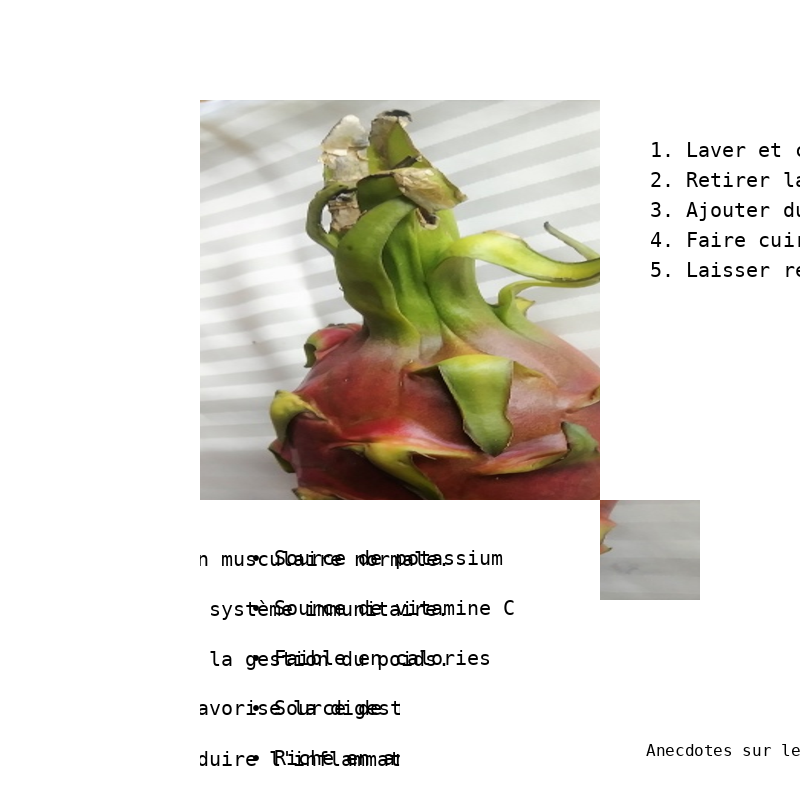
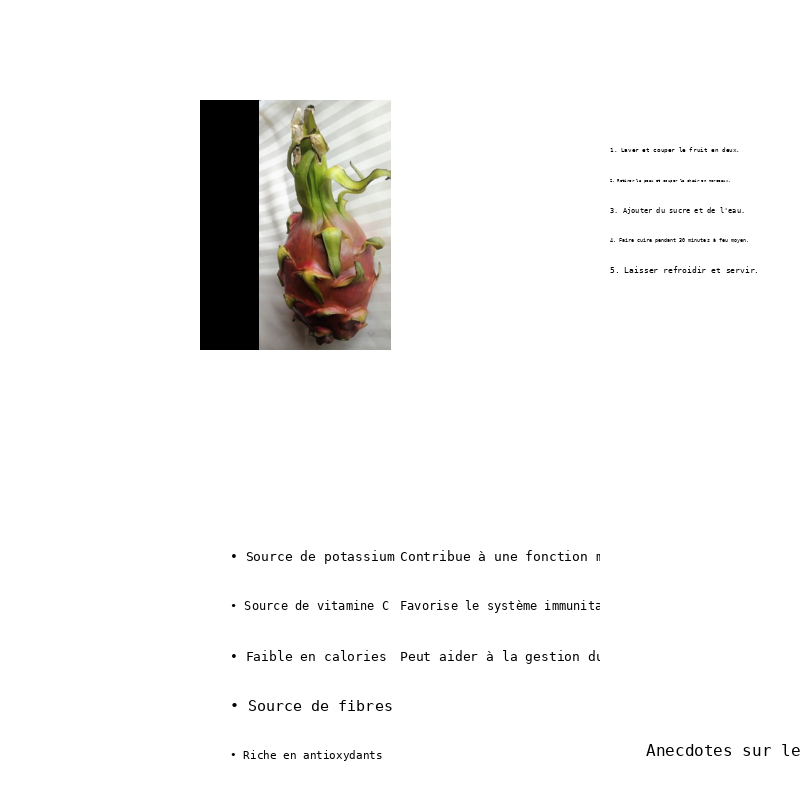
update benefits texte

diff --git a/infographie.py b/infographie.py
@@ -1,16 +1,79 @@
 from PIL import Image, ImageDraw, ImageFont
+import textwrap
+
+def adjust_text_size(text, font, max_width, font_file):
+    # Calcule la taille actuelle du texte
+    current_width, current_height = font.getsize(text)
+
+    # Si la taille actuelle est inférieure à la taille maximale, retourne simplement la police actuelle
+    if current_width <= max_width:
+        return font
+
+    # Trouve la taille de police maximale qui convient
+    max_font_size = get_max_font_size(text, max_width, font_file)
+
+    # Crée la police à partir de la taille maximale trouvée
+    font = ImageFont.truetype(font_file, max_font_size)
+
+    # Effectue un retour à la ligne automatique si nécessaire
+    text = wordWrap(text, max_width)
+
+    return font, text
+
+
+# Ce code permet de Redimensionner et recadrer une image à la taille spécifiée tout en maintenant les proportions d'origine
+def resize_and_crop_image(image, size):
+    ratio = image.width / image.height
+    new_size = (int(min(size[1]*ratio, size[0])), int(min(size[0]/ratio, size[1])))
+    image = image.resize(new_size)
+    width, height = image.size
+    left = (width - size[0]) // 2
+    top = (height - size[1]) // 2
+    right = left + size[0]
+    bottom = top + size[1]
+    image = image.crop((left, top, min(right, width), min(bottom, height)))
+    return image
+
+def get_max_font_size(text, max_width, font_file):
+    font_size = 1
+    while True:
+        font = ImageFont.truetype(font_file, font_size)
+        width, height = font.getsize(text)
+        if width > max_width:
+            return font_size - 1
+        font_size += 1
+
+def wordWrap(text, max_width, line_spacing=1.0):
+    lines = textwrap.wrap(text, width=max_width)
+    spacer_add = min(len(lines) * line_spacing, 0.5) * max_width
+    return spacer_add, "\n".join(lines)
+
 
 # Dimensions de l'image
-IMAGE_WIDTH = 1000
-IMAGE_HEIGHT = 800
+IMAGE_WIDTH = 2000
+IMAGE_HEIGHT = 1600
 
 # Dimensions de l'image centrale
-CENTER_IMAGE_WIDTH = 500
-CENTER_IMAGE_HEIGHT = 500
+CENTER_IMAGE_WIDTH = 250
+CENTER_IMAGE_HEIGHT = 250
 
 # Position de l'image centrale
 CENTER_IMAGE_X = IMAGE_WIDTH // 2 - CENTER_IMAGE_WIDTH // 2
 CENTER_IMAGE_Y = IMAGE_HEIGHT // 2 - CENTER_IMAGE_HEIGHT // 2
+
+# typologie texte
+font_file = "DejaVuSansMono.ttf"
+max_width = 150
+
+palette_couleur = {'fonts':
+                {'h1': {'font': ImageFont.truetype("DejaVuSansMono.ttf", 40), 'color': (0, 0, 0)},
+                 'h2': {'font': ImageFont.truetype("DejaVuSansMono.ttf", 66), 'color': (0, 63, 100)},
+                 'h3': {'font': ImageFont.truetype("DejaVuSansMono.ttf", 66), 'color': (172, 213, 230)},
+                 'p1': {'font': ImageFont.truetype("DejaVuSansMono.ttf", 30), 'color': (0, 0, 0)},
+                 'p2': {'font': ImageFont.truetype("DejaVuSansMono.ttf", 30), 'color': (172, 213, 230)},
+                 'p3': {'font': ImageFont.truetype("DejaVuSansMono.ttf", 45), 'color': (172, 213, 230)}},
+                'colors': {'bg1': (255, 255, 255), 'bg2': (0, 63, 100), 'logoext': '-dark'}
+                }
 
 # Données sur le fruit du dragon
 product_name = 'Fruit du dragon'
@@ -36,34 +99,47 @@ fun_facts = [
 
 # Chargement de l'image du fruit du dragon
 product_image = Image.open('images/fruit_dragon.jpg')
-product_image = product_image.resize((CENTER_IMAGE_WIDTH, CENTER_IMAGE_HEIGHT))
+
+product_image = resize_and_crop_image(product_image, (CENTER_IMAGE_WIDTH, CENTER_IMAGE_HEIGHT))
 
 # Création de l'image centrale
-center_image = Image.new('RGB', (CENTER_IMAGE_WIDTH, CENTER_IMAGE_HEIGHT), (255, 255, 255))
+# center_image = Image.new('RGB', (CENTER_IMAGE_WIDTH, CENTER_IMAGE_HEIGHT), (255, 255, 255))
+center_image = Image.new('RGB', (CENTER_IMAGE_WIDTH, CENTER_IMAGE_HEIGHT), palette_couleur['colors']['bg1'])
 center_image.paste(product_image, (0, 0))
 center_image_draw = ImageDraw.Draw(center_image)
 center_image_font = ImageFont.truetype('DejaVuSansMono.ttf', 40)
 center_image_draw.text((CENTER_IMAGE_WIDTH // 2, CENTER_IMAGE_HEIGHT + 20), product_name, fill=(0, 0, 0), font=center_image_font, anchor='ms')
 
 # Création des étapes de cuisson
-cooking_steps_image = Image.new('RGB', (400, 400), (255, 255, 255))
+cooking_steps_image = Image.new('RGB', (400, 400), palette_couleur['colors']['bg1'])
 cooking_steps_draw = ImageDraw.Draw(cooking_steps_image)
-cooking_steps_font = ImageFont.truetype('DejaVuSansMono.ttf', 20)
+#cooking_steps_font = ImageFont.truetype('DejaVuSansMono.ttf', 20)
 step_y = 50
 for step in cooking_steps:
-    cooking_steps_draw.text((50, step_y), step, fill=(0, 0, 0), font=cooking_steps_font, anchor='lm')
+    font_size = get_max_font_size(step, max_width, font_file)
+    #print("cooking font size : ", font_size)
+    #print("cooking step phrase : ", step)
+    font = ImageFont.truetype(font_file, font_size)
+    cooking_steps_font = adjust_text_size(step, font, max_width, font_file)
+    cooking_steps_draw.text((10, step_y), step, fill=(0, 0, 0), font=cooking_steps_font, anchor='lm')
     step_y += 30
 
 # Création des avantages pour la santé
-health_benefits_image = Image.new('RGB', (400, 400), (255, 255, 255))
+health_benefits_image = Image.new('RGB', (400, 400), palette_couleur['colors']['bg1'])
 health_benefits_draw = ImageDraw.Draw(health_benefits_image)
-health_benefits_font = ImageFont.truetype("DejaVuSansMono.ttf", 20)
+
 benefit_y = 50
 for benefit, description in health_benefits.items():
-    health_benefits_draw.text((50, benefit_y), "• " + benefit, fill=(0, 0, 0), font=health_benefits_font, anchor="lt")
-    health_benefits_draw.text((250, benefit_y), description, fill=(0, 0, 0), font=health_benefits_font, anchor="rt")
+    #health_benefits_font = adjust_text_size(benefit, ImageFont.truetype("DejaVuSansMono.ttf", 20), 200)
+    font_size = get_max_font_size(benefit, max_width, font_file)
+    font = ImageFont.truetype(font_file, font_size)
+    health_benefits_font = adjust_text_size(benefit, font, max_width, font_file)
+    health_benefits_draw.text((30, benefit_y), "• " + benefit, fill=(0, 0, 0), font=health_benefits_font, anchor="lt")
+    
+    #health_benefits_font = adjust_text_size(description, ImageFont.truetype("DejaVuSansMono.ttf", 20), 200)
+    health_benefits_font = adjust_text_size(benefit, font, max_width, font_file)
+    health_benefits_draw.text((200, benefit_y), description, fill=(0, 0, 0), font=health_benefits_font, anchor="lt")
     benefit_y += 50
-
 
 # Création de l'image d'anecdotes
 anecdotes_image = Image.new('RGB', (800, 100), (255, 255, 255))
